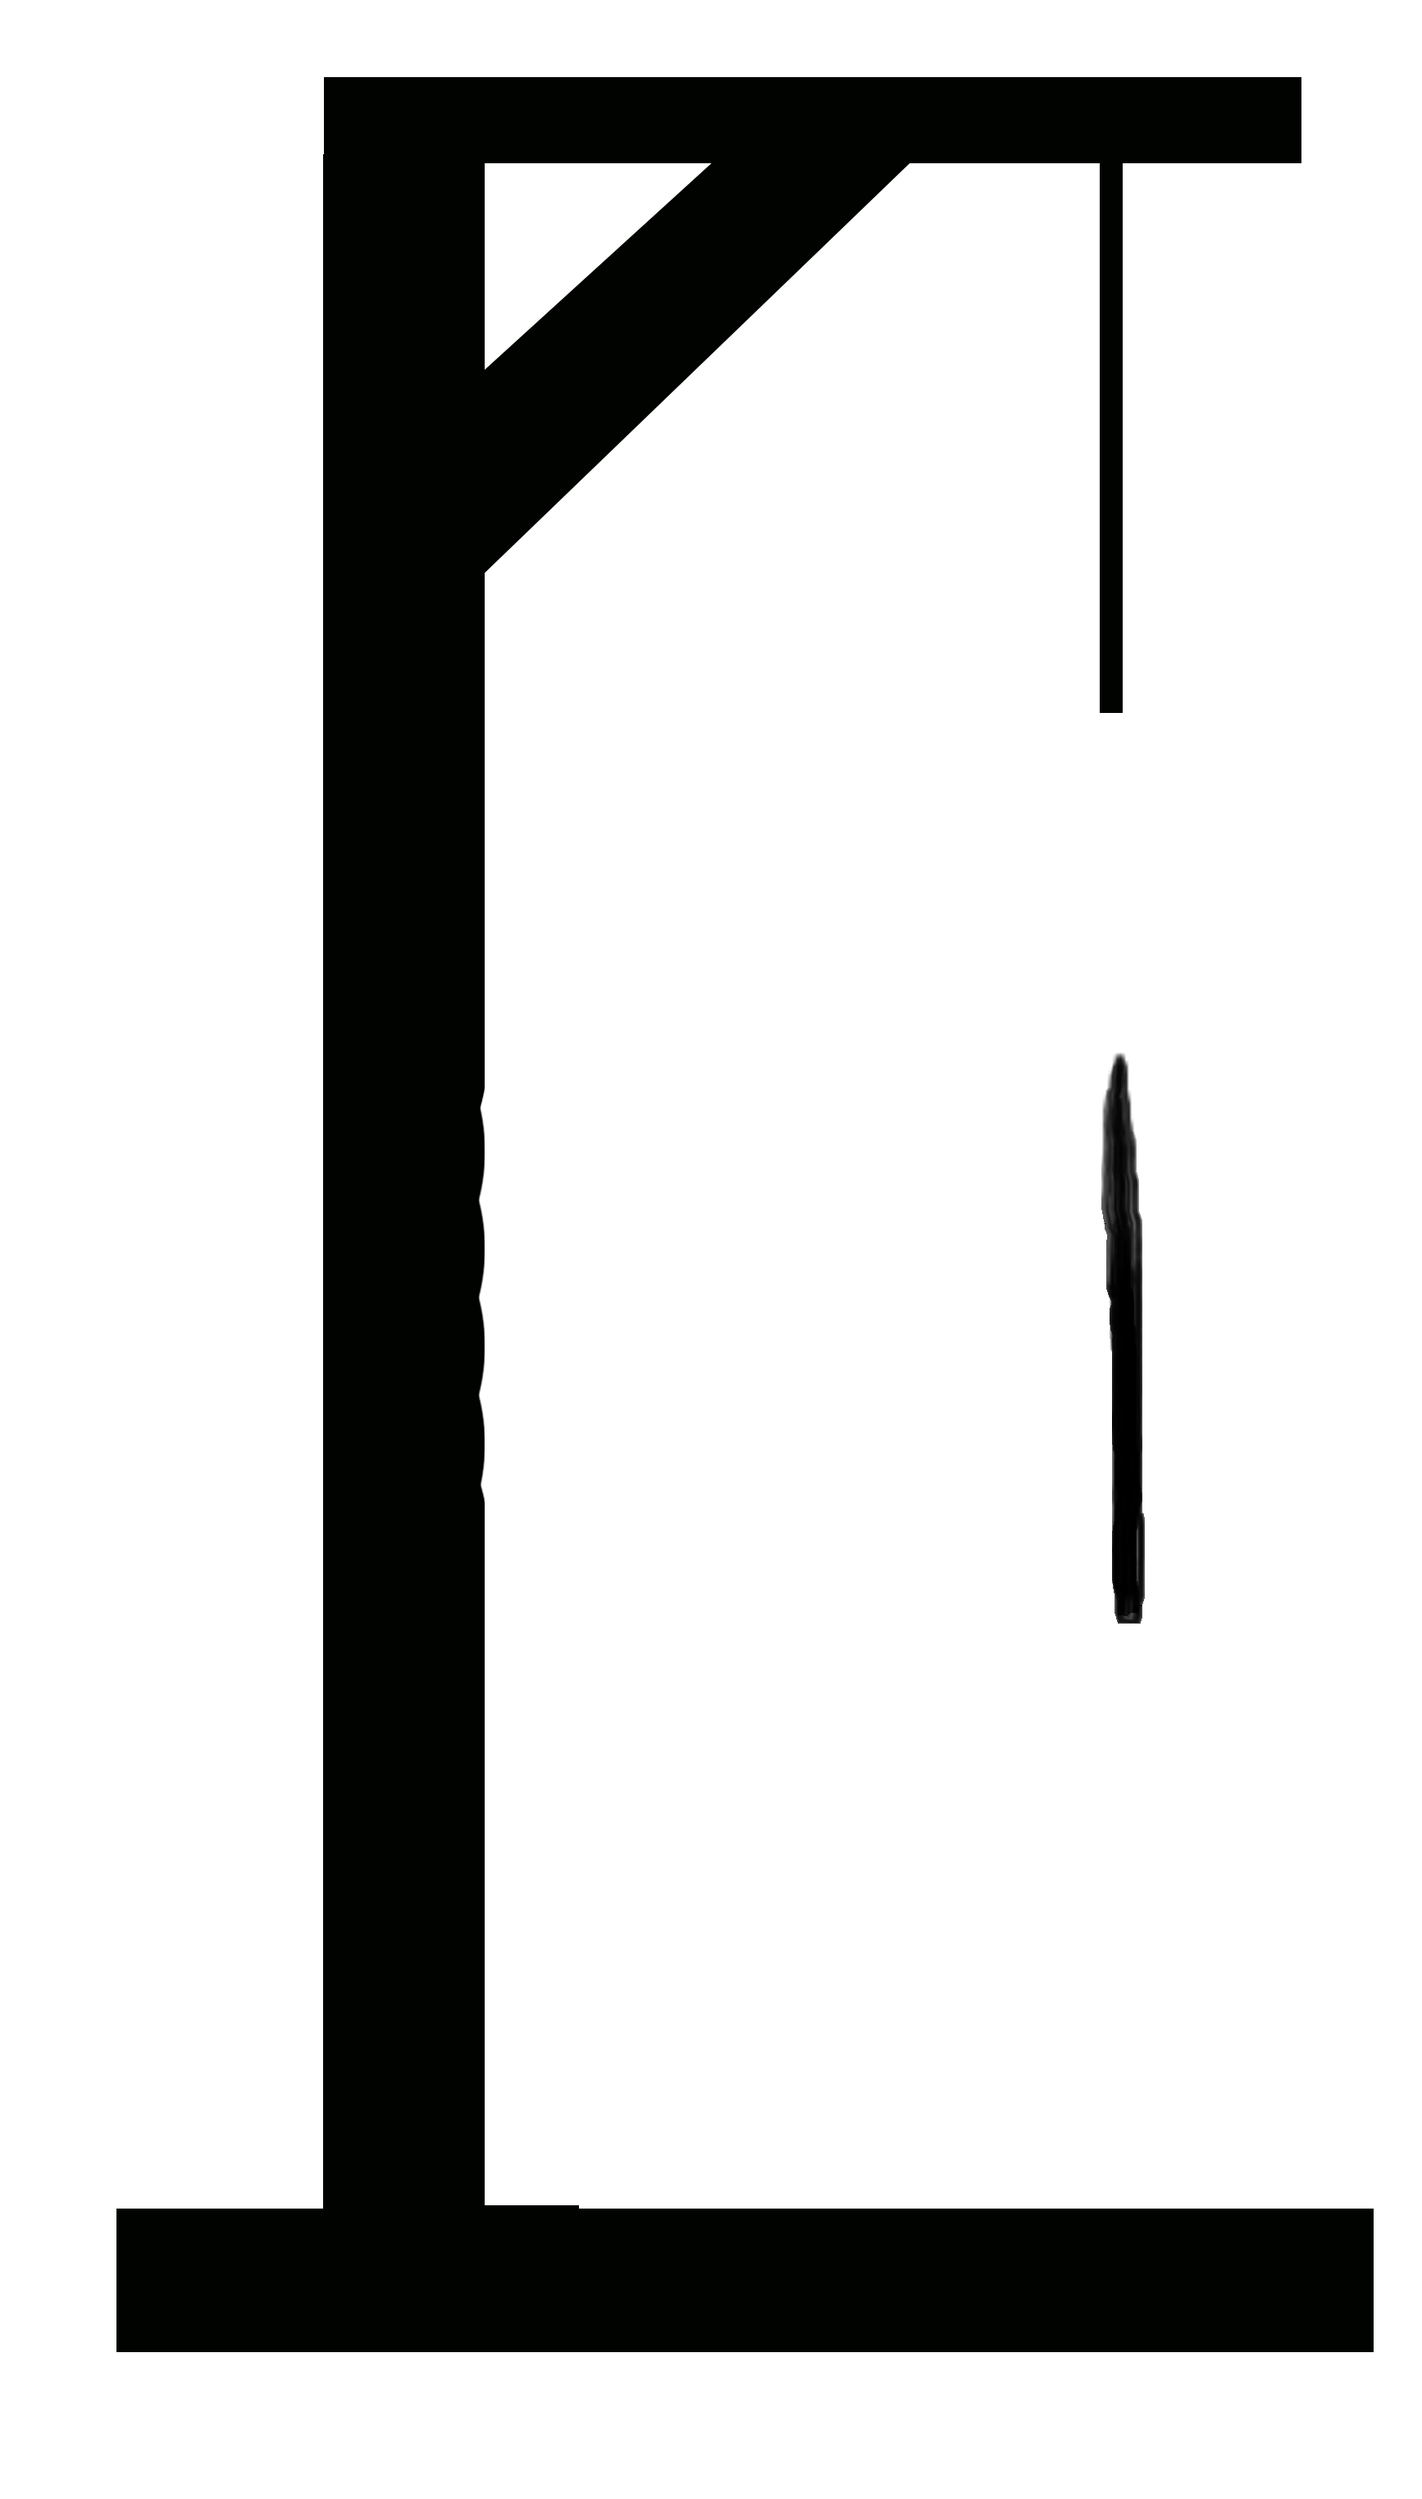
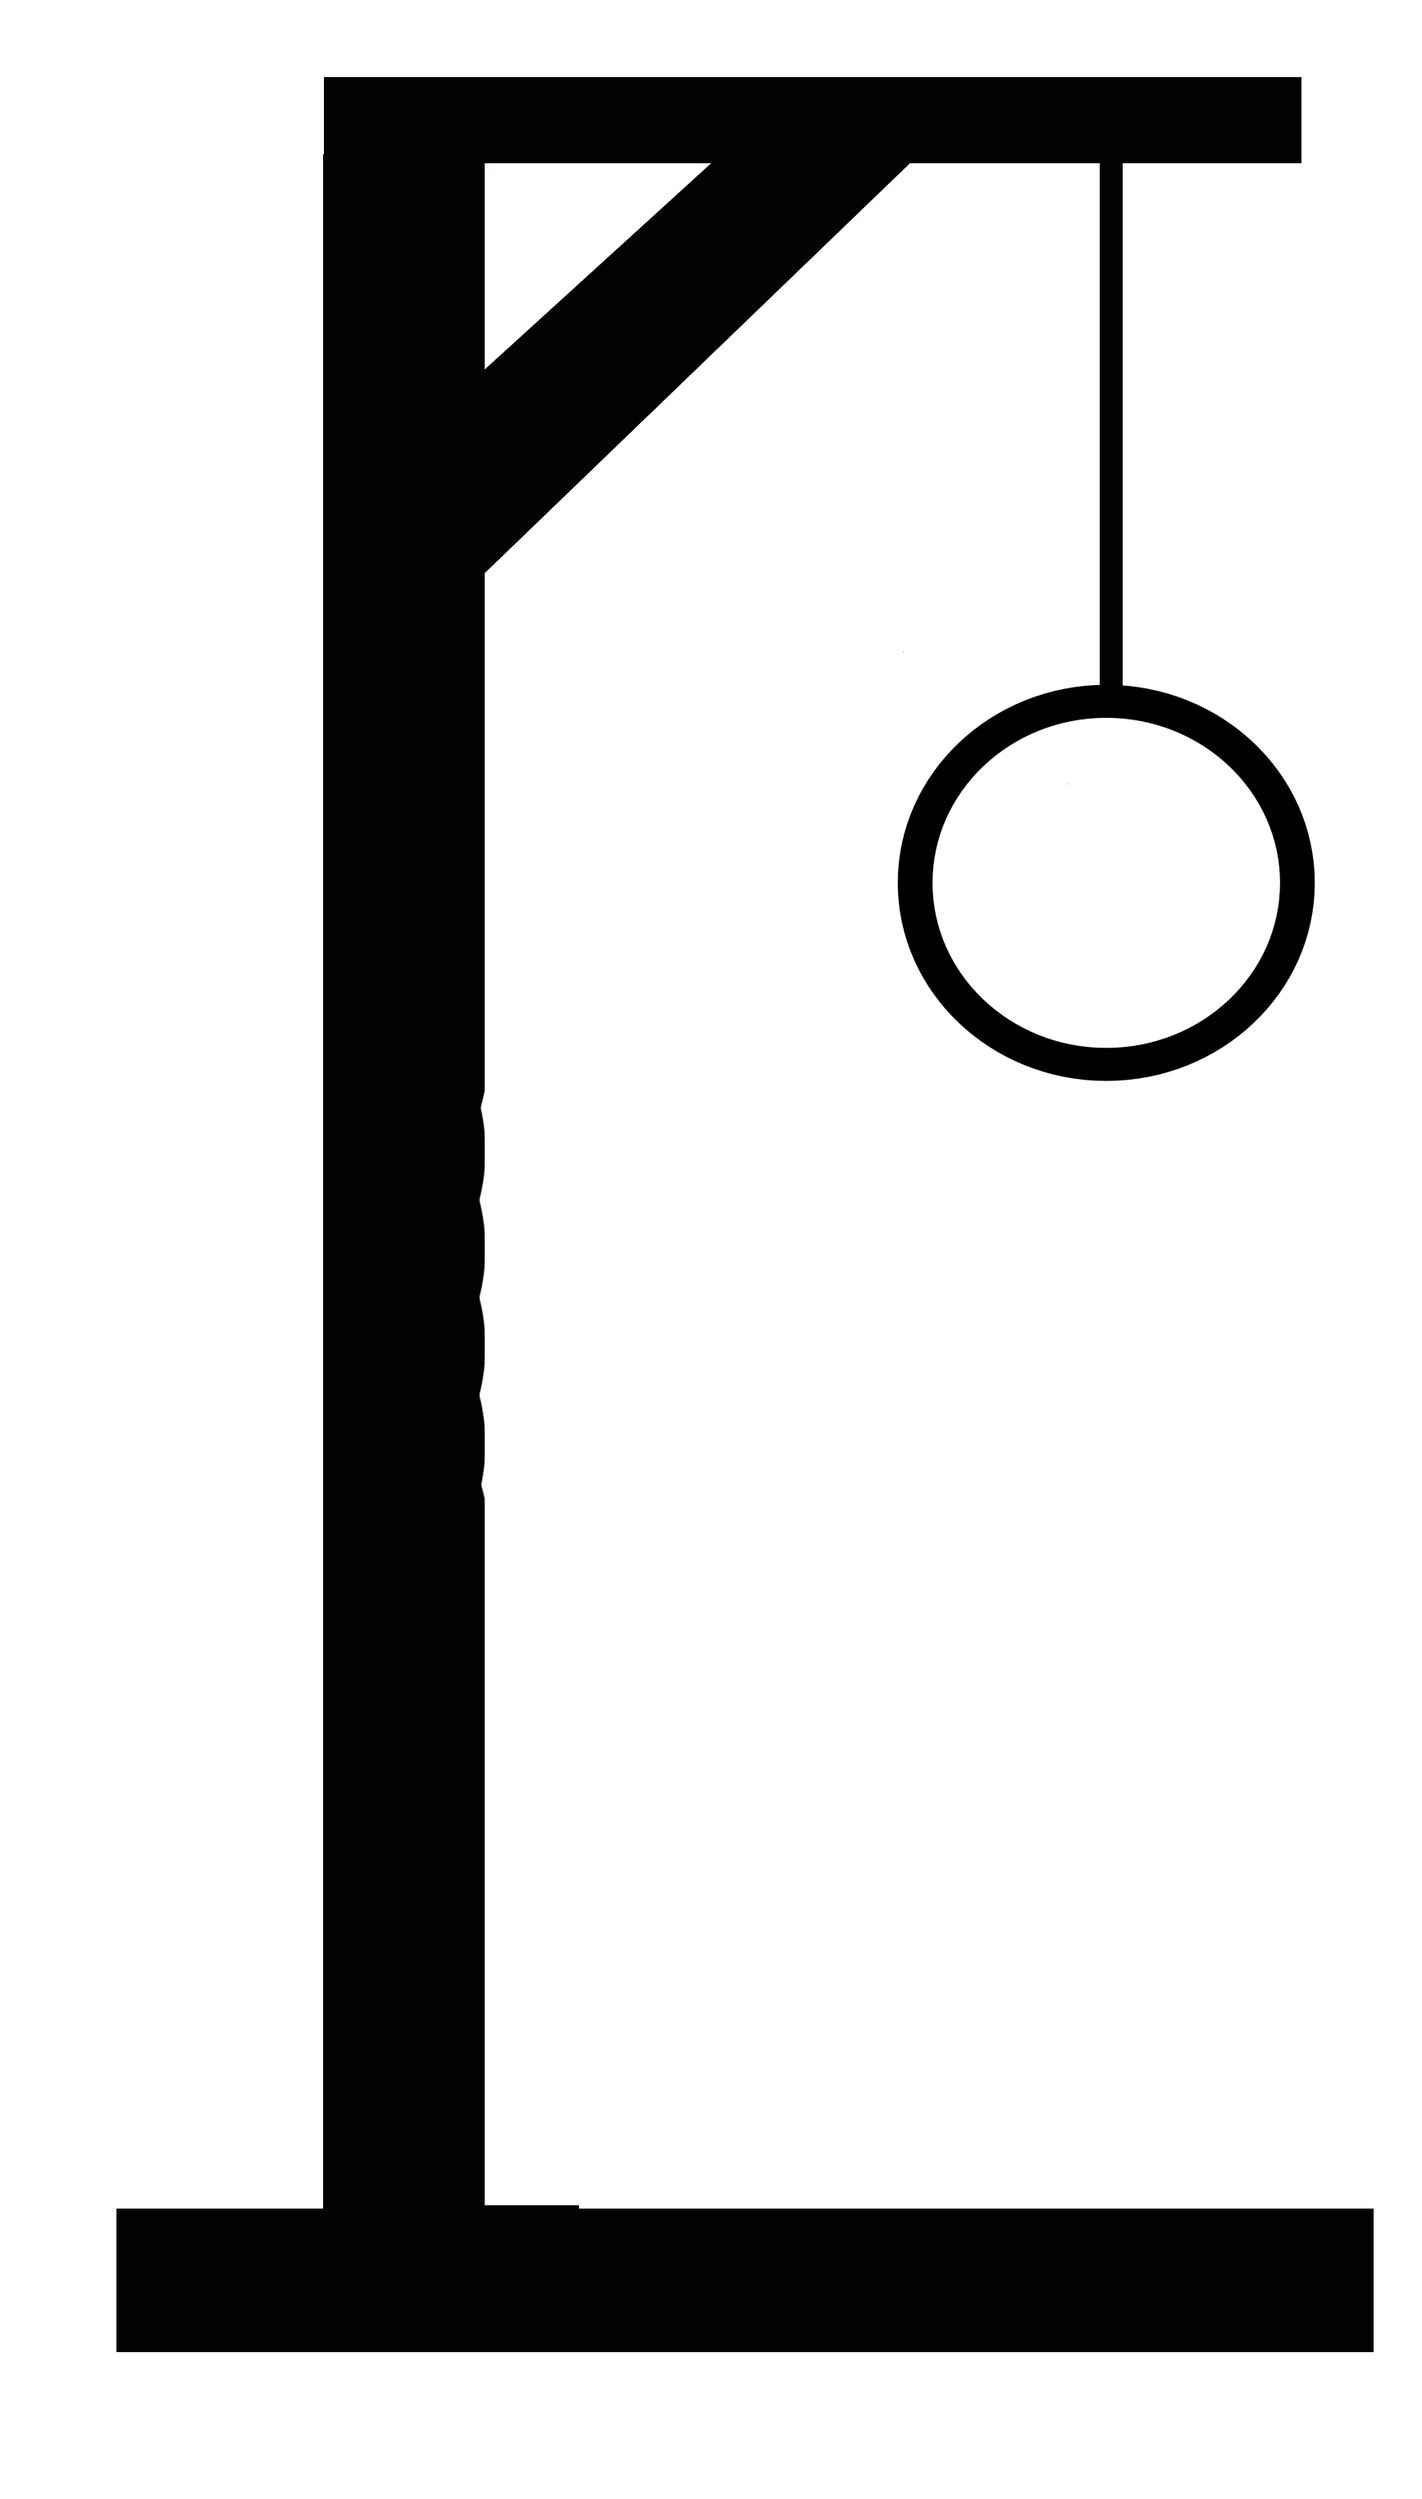
Project
TEST project

Changed region(s): [[0.6228, 0.2495, 0.9343, 0.4054], [0.6851, 0.4054, 0.872, 0.655]]

diff --git a/Test_Lena.py b/Test_Lena.py
@@ -2,7 +2,7 @@ import random
 import tkinter as tk
 from tkinter import ttk, messagebox
 
-# Mängu loogika klass
+# Mängu loogika klass (jätka sama)
 class HangmanGame:
     def __init__(self):
         self.lives = 6
@@ -57,7 +57,7 @@ class HangmanGame:
     def get_chosen_word(self):
         return self.chosen_word
 
-# Mängu visuaalne klass
+# Mängu visuaalne klass (kasuta seda versiooni)
 class HangmanDisplay:
     def __init__(self, master, game):
         self.master = master
@@ -68,14 +68,36 @@ class HangmanDisplay:
         self.word_display.place(x=550, y=20)
         self.message_label = ttk.Label(master, text="Alusta mängu!", font=("Arial", 16))
         self.message_label.place(x=550, y=320)
-        self.draw_initial_hangman() # Joonistame alguses tühja poomispuu
+        self.hangman_images = []
+        for i in range(7):
+            try:
+                img = tk.PhotoImage(file=f"./Images/TikiMan1HB{i + 1}.png")
+                self.hangman_images.append(img)
+                print(f"Pilt TikiMan1HB{i + 1}.png laaditi edukalt.")
+            except tk.TclError as e:
+                messagebox.showerror("Viga pildi laadimisel", f"Ei saanud laadida pilti TikiMan1HB{i + 1}.png: {e}")
+                self.hangman_images.append(None)  # Lisa None, et listi pikkus oleks õige
+
+        print(f"Piltide laadimine tulemus: {self.hangman_images}")
+
+        # Loome pildi canvas'ile alles pärast canvas'i loomist
+        if self.hangman_images[0]:
+            self.hangman_image_on_canvas = self.canvas.create_image(150, 150, image=self.hangman_images[0])
+        else:
+            self.hangman_image_on_canvas = None
+
+        self.guessed_letters_label = ttk.Label(master, text="Pakutud tähed:", font=("Arial", 12))
+        self.guessed_letters_label.place(x=700, y=80)
+        self.guessed_letters_display = ttk.Label(master, text="", font=("Courier", 14))
+        self.guessed_letters_display.place(x=700, y=100)
+        self.update_hangman_image()
 
     def update_word(self):
         self.word_display.config(text=f"Sõna: {self.game.get_display_word()}")
 
     def update_lives(self):
         self.message_label.config(text=f"Elud: {self.game.get_lives()}")
-        self.draw_hangman()
+        self.update_hangman_image()
 
     def show_win_message(self):
         self.message_label.config(text=f"Võitsid! Sõna oli: {self.game.get_chosen_word()}")
@@ -83,31 +105,21 @@ class HangmanDisplay:
     def show_lose_message(self):
         self.message_label.config(text=f"Kaotasid! Sõna oli: {self.game.get_chosen_word()}")
 
-    def draw_initial_hangman(self):
-        # Joonista siia tühja poomispuu (hangman_images[0] funktsionaalsus)
-        self.canvas.delete("all")
-        # Näide lihtsast poomispuust:
-        self.canvas.create_line(50, 250, 250, 250) # Alus
-        self.canvas.create_line(100, 250, 100, 50)  # Post
-        self.canvas.create_line(100, 50, 200, 50)   # Risttala
-        self.canvas.create_line(200, 50, 200, 70)   # Köis
-
-    def draw_hangman(self):
+    def update_hangman_image(self):
         lives_left = self.game.get_lives()
-        self.canvas.delete("all") # Puhastame eelmise joonise
-        self.draw_initial_hangman() # Joonistame alati baasi
+        index = 6 - lives_left
+        print(f"Uuendatakse pilti. Elud: {lives_left}, indeks: {index}")
+        if 0 <= index < len(self.hangman_images):
+            if self.hangman_image_on_canvas:
+                print(f"Uuendatakse pilti indeksiga {index}")
+                self.canvas.itemconfig(self.hangman_image_on_canvas, image=self.hangman_images[index])
+            else:
+                print("Canvas element pildi jaoks pole veel loodud!")
+        else:
+            print(f"Vigane pildi indeks: {index}")
 
-        parts = [
-            lambda c: c.create_oval(170, 70, 210, 110),             # pea (kui 5 elu alles)
-            lambda c: c.create_line(190, 110, 190, 180),            # keha (kui 4 elu alles)
-            lambda c: c.create_line(190, 130, 160, 160),           # vasak käsi (kui 3 elu alles)
-            lambda c: c.create_line(190, 130, 220, 160),           # parem käsi (kui 2 elu alles)
-            lambda c: c.create_line(190, 180, 160, 220),           # vasak jalg (kui 1 elu alles)
-            lambda c: c.create_line(190, 180, 220, 220),           # parem jalg (kui 0 elu alles)
-        ]
-
-        for i in range(6 - lives_left):
-            parts[i](self.canvas)
+    def update_guessed_letters(self):
+        self.guessed_letters_display.config(text=", ".join(sorted(list(self.game.guessed_letters))))
 
 # Peamine rakenduse klass
 class HangmanApp:
@@ -117,12 +129,12 @@ class HangmanApp:
         master.geometry("1000x600")
         master.resizable(False, False)
         try:
-            master.iconbitmap("./images/icon.ico")
+            master.iconbitmap("./Images/icon.ico")
         except tk.TclError:
             pass # Ikoni laadimine ei ole kriitiline
 
         self.game = HangmanGame()
-        self.display = HangmanDisplay(master, self.game)
+        self.display = HangmanDisplay(master, self.game) # Loome HangmanDisplay objekti
 
         self.message_label_top = ttk.Label(master, text="Vali raskusaste", font=("Arial", 14))
         self.message_label_top.place(x=40, rely=0.1)
@@ -144,10 +156,12 @@ class HangmanApp:
         master.bind('<Return>', lambda event: self.on_guess()) # Võimaldab Enter-klahviga pakkuda
 
     def start_new_game(self, filename):
+        print(f"Alustatakse uut mängu failiga: {filename}")
         if self.game.start_game(filename):
             self.display.update_word()
             self.display.update_lives()
-            self.guess_entry.config(state=tk.NORMAL) # Lubame uuesti pakkuda
+            self.display.update_guessed_letters()
+            self.guess_entry.config(state=tk.NORMAL)
             self.guess_entry.delete(0, tk.END)
             self.display.message_label.config(text="Mäng algas! Paku tähte.")
 
@@ -155,18 +169,24 @@ class HangmanApp:
         letter = self.guess_entry.get()
         self.guess_entry.delete(0, tk.END)
         if letter:
-            if self.game.guess_letter(letter[0]):
+            print(f"Pakutud täht: {letter}")
+            was_correct = self.game.guess_letter(letter[0])
+            if was_correct:
+                print("Täht oli õige.")
                 self.display.update_word()
+                self.display.update_guessed_letters()
                 if self.game.is_won():
                     self.display.show_win_message()
-                    self.guess_entry.config(state=tk.DISABLED) # Keelame peale võitu pakkumise
+                    self.guess_entry.config(state=tk.DISABLED)
             else:
+                print("Täht oli vale.")
                 self.display.update_lives()
+                self.display.update_guessed_letters()
                 if self.game.is_lost():
                     self.display.show_lose_message()
-                    self.guess_entry.config(state=tk.DISABLED) # Keelame peale kaotust pakkumise
+                    self.guess_entry.config(state=tk.DISABLED)
 
 if __name__ == "__main__":
     window = tk.Tk()
-    app = HangmanApp(window)
+    app = HangmanApp(window) # Loome HangmanApp objekti
     window.mainloop()

diff --git a/Images/ConnectImages.py b/Images/ConnectImages.py
@@ -1,0 +1,62 @@
+"""
+hangman_images listi sisu peaks olema järgmine:
+hangman_images[0]: Poomispuu koos ripatsiga
+hangman_images[1]: Poomispuu koos ripatsiga ja peaga
+hangman_images[2]: Poomispuu koos ripatsiga, pea ja kehaga
+hangman_images[3]: Poomispuu koos ripatsiga, pea, keha ja ühe käega
+hangman_images[4]: Poomispuu koos ripatsiga, pea, keha ja mõlema käega
+hangman_images[5]: Poomispuu koos ripatsiga, pea, keha, mõlema käega ja ühe jalaga
+hangman_images[6]: Poomispuu koos ripatsiga, pea, keha, mõlema käega ja mõlema jalaga (mängija on "poositud")
+"""
+def start_game(filename):
+    global random_word, guessed_letters, wrong_guesses
+    with open(filename, "r") as file:
+        content = file.read()
+        word_list = [word.strip() for word in content.split(",") if word.strip()]
+        random_word = random.choice(word_list).lower()
+    guessed_letters = set()
+    wrong_guesses = 0
+    update_displayed_word()
+    update_hangman_image()
+    message.config(text="Game started! Guess a letter.")
+
+hangman_images = [tk.PhotoImage(file=f"./images/hangman{i}.png") for i in range(7)] #Alla laetu filedega
+
+def update_hangman_image():
+    game_display.itemconfig(hangman_image_on_canvas, image=hangman_images[wrong_guesses])
+
+word_label = ttk.Label(window, text="", font=("Courier", 24))
+word_label.place(relx=0.5, rely=0.7, anchor="center")
+
+def guess_letter():
+    global wrong_guesses
+    letter = guess_entry.get().lower()
+    guess_entry.delete(0, tk.END)
+
+    if not letter.isalpha() or len(letter) != 1:
+        message.config(text="Please enter one letter.")
+        return
+
+    if letter in guessed_letters:
+        message.config(text="You already guessed that letter.")
+        return
+
+    guessed_letters.add(letter)
+
+    if letter in random_word:
+        update_displayed_word()
+        if "_" not in word_label.cget("text"):
+            message.config(text=f"You won! The word was: {random_word}")
+    else:
+        wrong_guesses += 1
+        update_hangman_image()
+        if wrong_guesses == 6:
+            message.config(text=f"You lost! The word was: {random_word}")
+            word_label.config(text=random_word)
+
+guess_button.config(command=guess_letter)
+
+
+def update_hangman_image(hangman_image_on_canvas=None, game_display=None): 
+    game_display.itemconfig(hangman_image_on_canvas, 
+                            image = hangman_images[wrong_guesses])

diff --git a/Display.py b/Display.py
@@ -1,0 +1,39 @@
+class HangmanDisplay:
+    def __init__(self, master, game):
+        self.master = master
+        self.game = game
+        self.canvas = tk.Canvas(master, width=300, height=300, bg="white")
+        self.canvas.place(x=550, y=80)
+        self.word_display = ttk.Label(master, text="", font=("Courier", 24))
+        self.word_display.place(x=550, y=20)
+        self.message_label = ttk.Label(master, text="Alusta mängu!", font=("Arial", 16))
+        self.message_label.place(x=550, y=320)
+        self.hangman_images = [tk.PhotoImage(file=f"./Images/TikiMan1HB{i+1}.png") for i in range(7)]
+        self.hangman_image_on_canvas = self.canvas.create_image(150, 150, image=self.hangman_images[0])
+        self.guessed_letters_label = ttk.Label(master, text="Pakutud tähed:", font=("Arial", 12))
+        self.guessed_letters_label.place(x=700, y=80)
+        self.guessed_letters_display = ttk.Label(master, text="", font=("Courier", 14))
+        self.guessed_letters_display.place(x=700, y=100)
+        self.update_hangman_image()
+
+    def update_word(self):
+        self.word_display.config(text=f"Sõna: {self.game.get_display_word()}")
+
+    def update_lives(self):
+        self.message_label.config(text=f"Elud: {self.game.get_lives()}")
+        self.update_hangman_image()
+
+    def show_win_message(self):
+        self.message_label.config(text=f"Võitsid! Sõna oli: {self.game.get_chosen_word()}")
+
+    def show_lose_message(self):
+        self.message_label.config(text=f"Kaotasid! Sõna oli: {self.game.get_chosen_word()}")
+
+    def update_hangman_image(self):
+        lives_left = self.game.get_lives()
+        index = 6 - lives_left
+        if 0 <= index < len(self.hangman_images):
+            self.canvas.itemconfig(self.hangman_image_on_canvas, image=self.hangman_images[index])
+
+    def update_guessed_letters(self, guessed_letters):
+        self.guessed_letters_display.config(text=", ".join(sorted(list(guessed_letters))))

diff --git a/App.py b/App.py
@@ -1,0 +1,25 @@
+import Display
+
+class HangmanApp:
+    def __init__(self, master):
+        # ... olemasolev kood ...
+        self.display = Display(master, self.game)
+        # ... ülejäänud kood ...
+
+    def on_guess(self, tk=None):
+        letter = self.guess_entry.get()
+        self.guess_entry.delete(0, tk.END)
+        if letter:
+            if self.game.guess_letter(letter[0]):
+                self.display.update_word()
+                self.display.update_guessed_letters(self.game.guessed_letters) # Uuendame kuvatavaid tähti
+                if self.game.is_won():
+                    self.display.show_win_message()
+                    self.guess_entry.config(state=tk.DISABLED)
+            else:
+                self.display.update_lives()
+                self.display.update_guessed_letters(self.game.guessed_letters) # Uuendame kuvatavaid tähti ka vale pakkumise korral
+                if self.game.is_lost():
+                    self.display.show_lose_message()
+                    self.guess_entry.config(state=tk.DISABLED)
+
